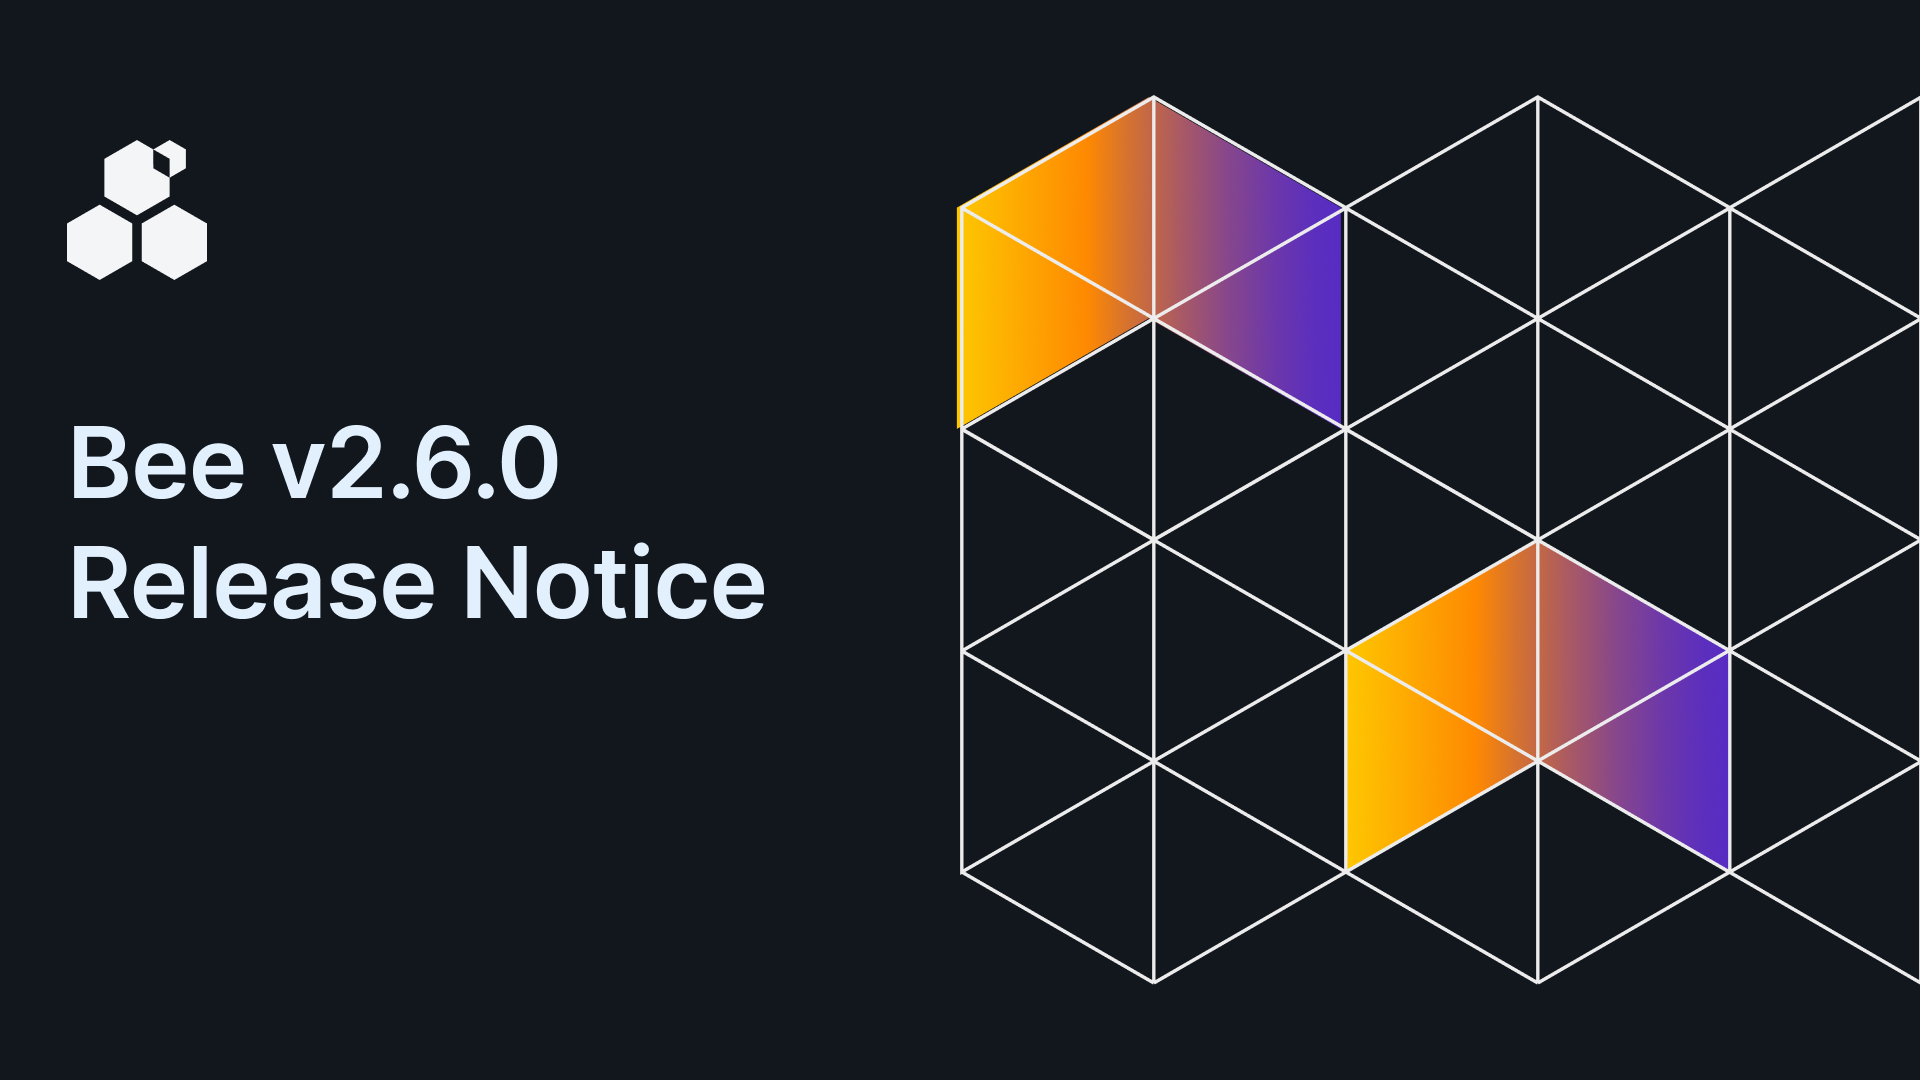
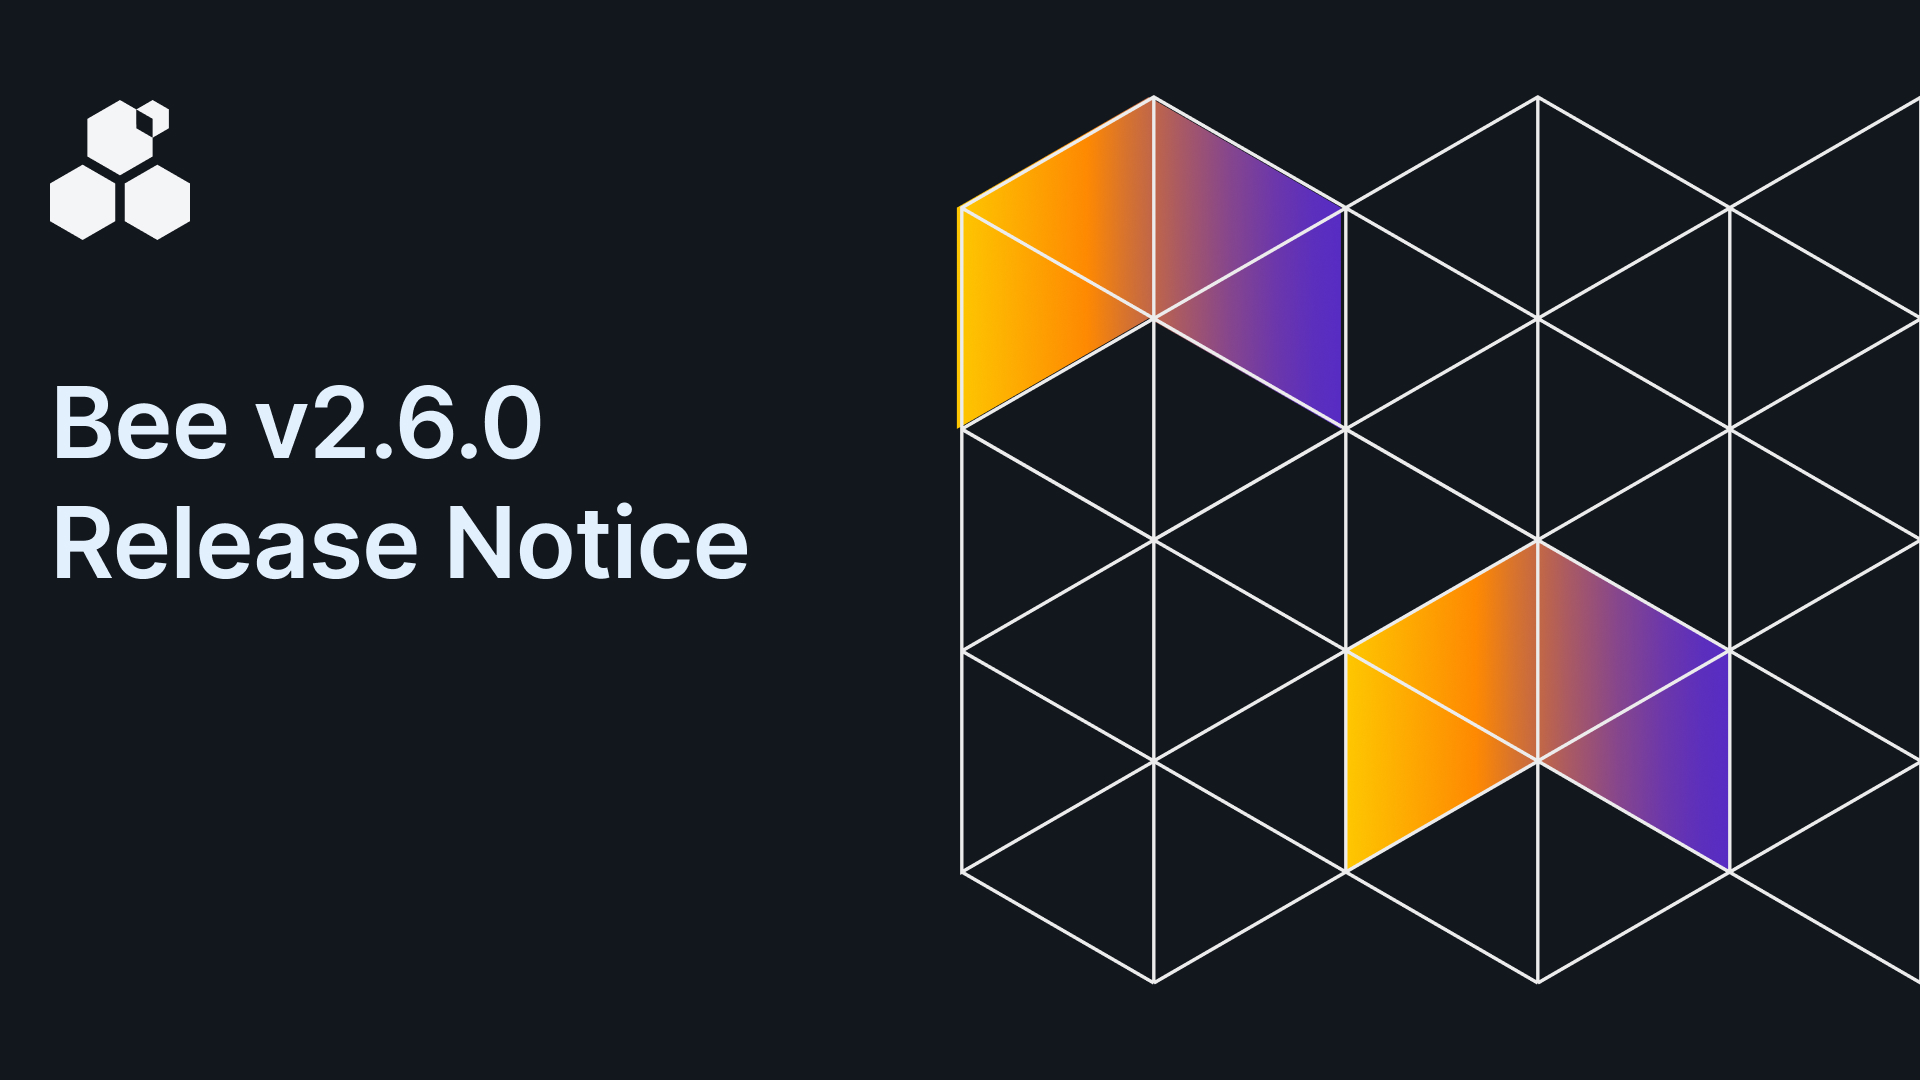
changed title

Changed region(s): [[0.0312, 0.3361, 0.4062, 0.5806], [0.0, 0.0917, 0.125, 0.275]]

diff --git a/content/foundation/posts/bee-v2.6.0-release-notice.md b/content/foundation/posts/bee-v2.6.0-release-notice.md
@@ -5,7 +5,7 @@ categories = [ "Development updates" ]
 date = 2025-06-10T00:00:00.000Z
 description = "Bee v2.6.0 brings faster than ever startup times (~10x faster!) so you can get busy uploading and downloading from Swarm in just a couple minutes."
 references_and_footnotes = [ ]
-title = "Bee Version 2.6.0"
+title = "Bee Version 2.6.0 Release Notice"
 _template = "post"
 slug="bee-2-6-0-release"
 +++
